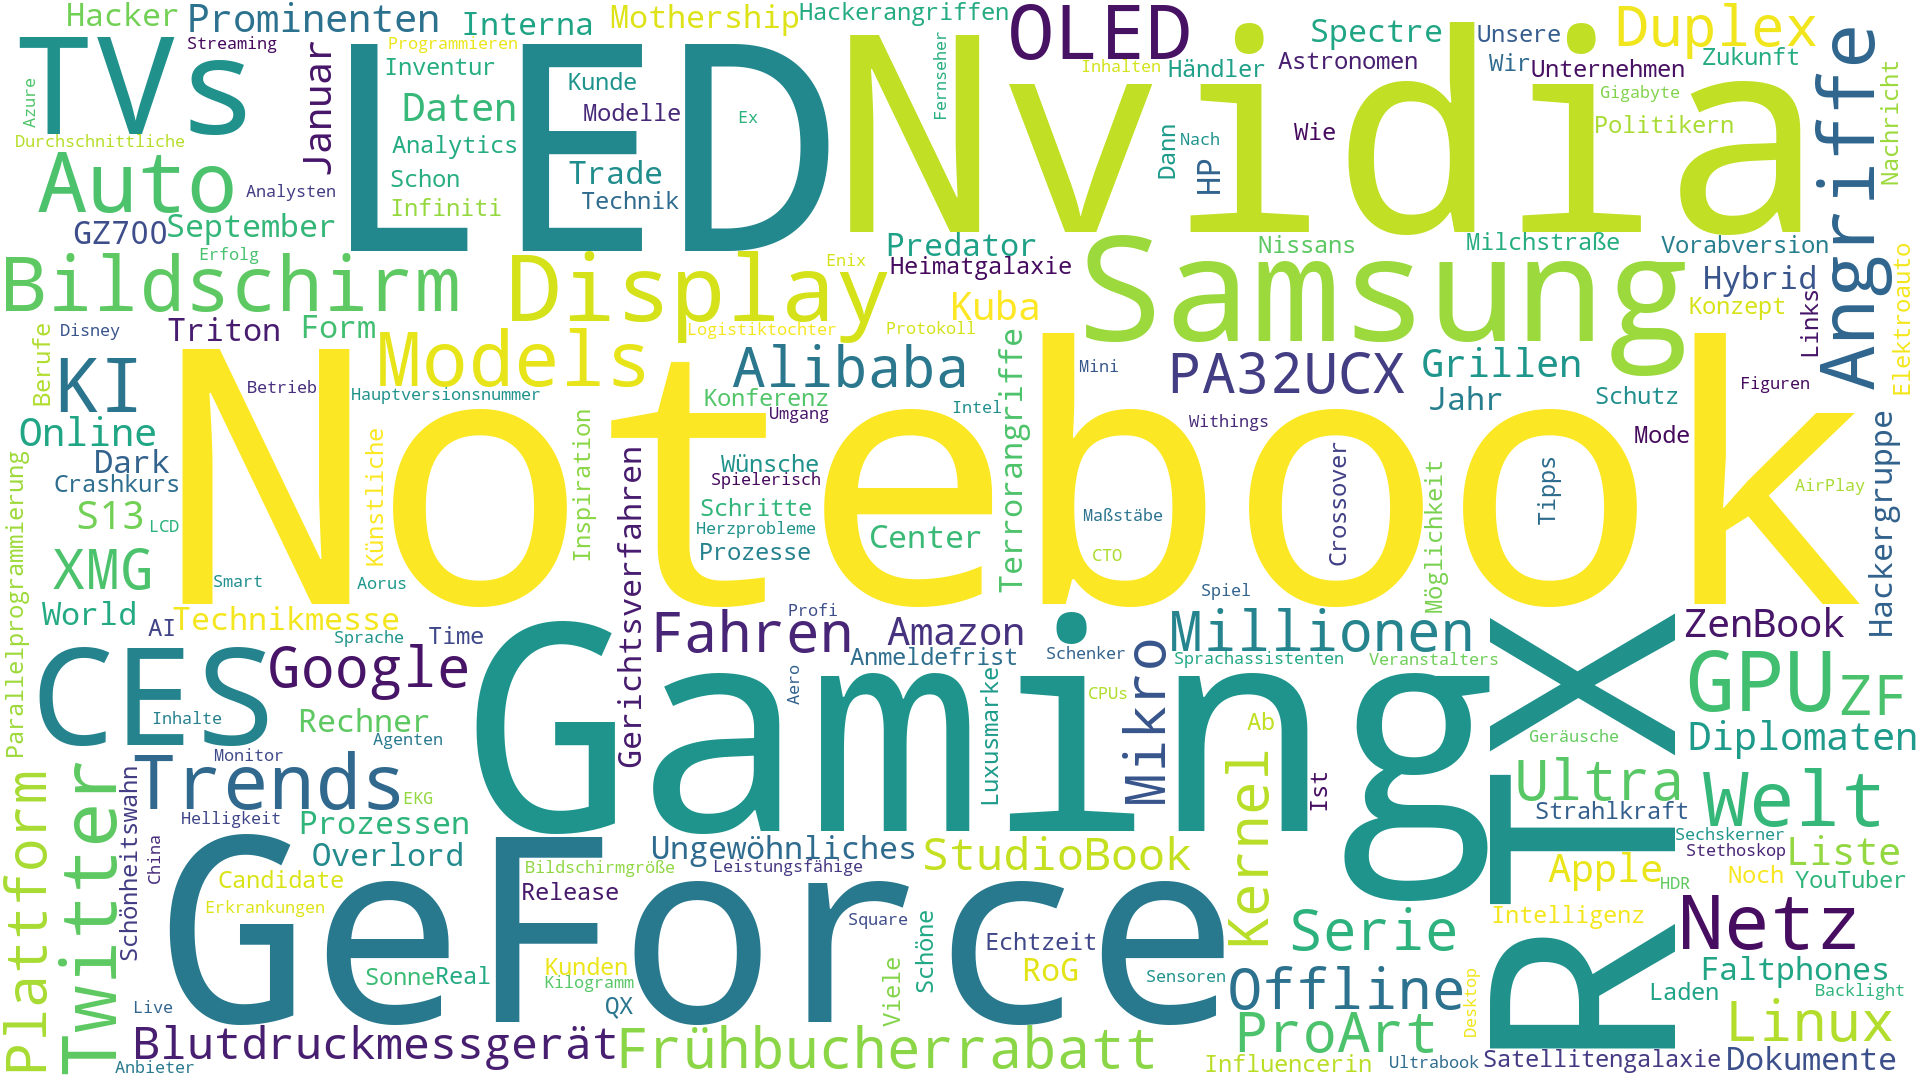
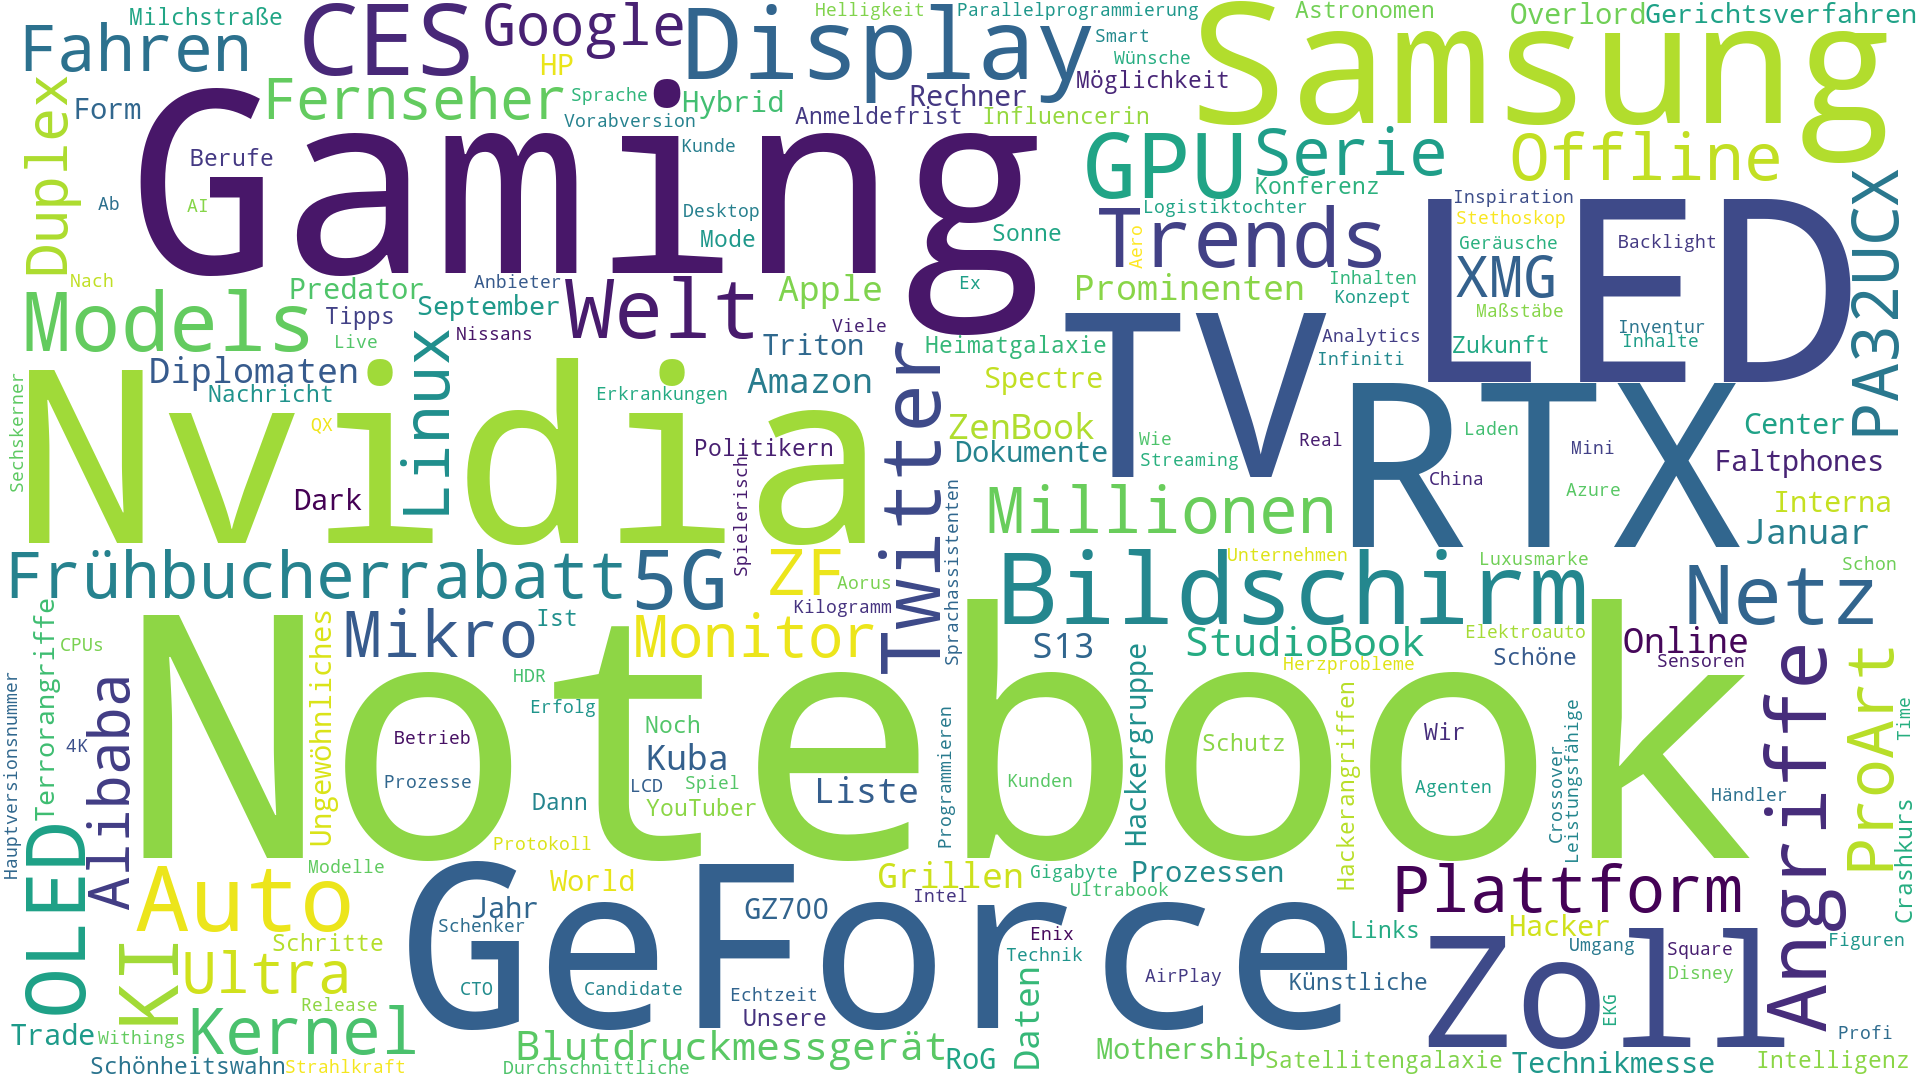
added support for words that start with a number

diff --git a/heise_crawler.py b/heise_crawler.py
@@ -4,6 +4,7 @@ import sqlite3
 from time import strftime
 from wordcloud import WordCloud
 
+
 '''
 init_table() creates the frontpage_stats table in sqlite3
 '''
@@ -15,6 +16,7 @@ def init_table(conn):
   conn.commit()
 
   return
+
 
 '''
 insert_into_table() adds the scraped data to individual rows
@@ -32,6 +34,7 @@ def insert_into_table(conn, teaser_titles, teaser_synopsis):
 
   return
 
+
 '''
 get_all_rows() selects all rows and prints them
 '''
@@ -45,6 +48,7 @@ def get_all_rows(conn):
     print(row)
 
   return
+
 
 '''
 prepare_wordcloud() sanitizes the text and puts it into a list
@@ -60,8 +64,9 @@ def prepare_wordcloud(conn):
 
   for row in range(len(rows)):
     rows[row] = rows[row].replace("'", '').replace('(', '').replace(')', '').replace(',', '').replace('"', '').replace(':', '').replace('[', '').replace(']', '').replace('?', '').replace('Der', '').replace('Die', '').replace('Das', '').replace('Auf', '').replace('Mit', '').replace('Ein', '').replace('Eine', '')
+
     # its important to check whether the string is empty FIRST - otherwise you get IndexError: string index out of range
-    if rows[row] != '' and rows[row][0].isupper():
+    if rows[row] != '' and (is_number(rows[row][0]) or rows[row][0].isupper()):
       res += rows[row] + ' '
   
   return res
@@ -75,6 +80,26 @@ def create_wordcloud(prepared_list):
   wc.to_file('wordcloud.png')
 
   return
+
+
+'''
+is_number() checks if a string is actually a number
+'''
+def is_number(s):
+  try:
+      int(s)
+      return True
+  except ValueError:
+      pass
+
+  try:
+      import unicodedata
+      unicodedata.numeric(s)
+      return True
+  except (TypeError, ValueError):
+      pass
+ 
+  return False
 
 
 '''
